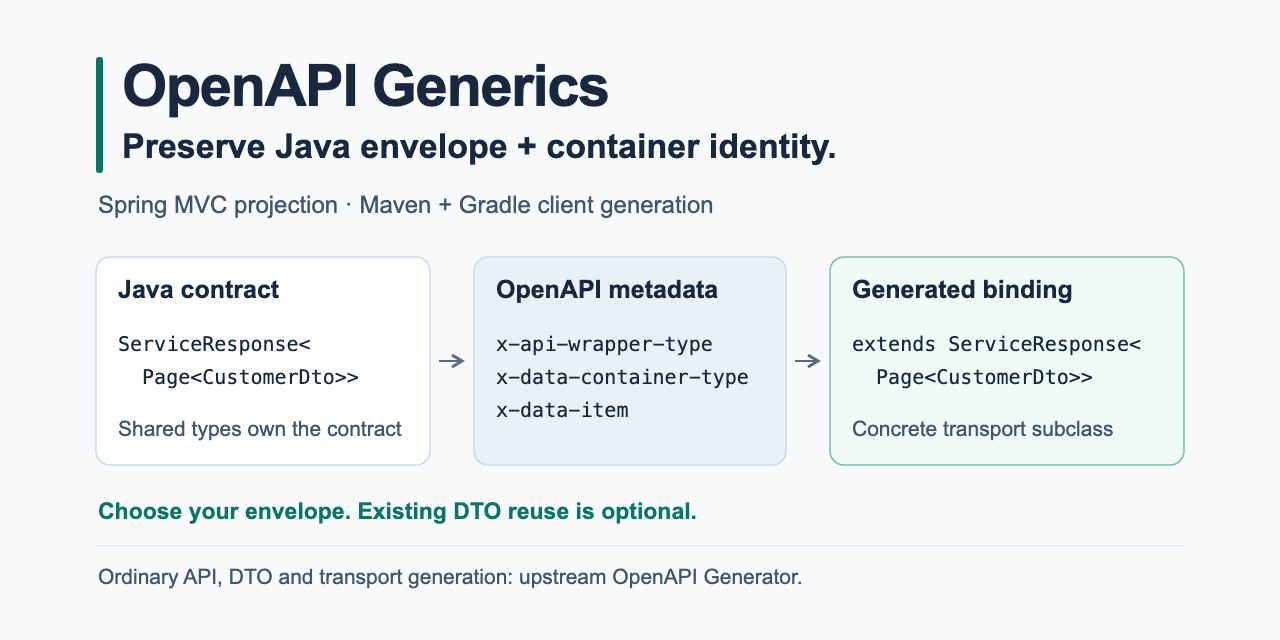
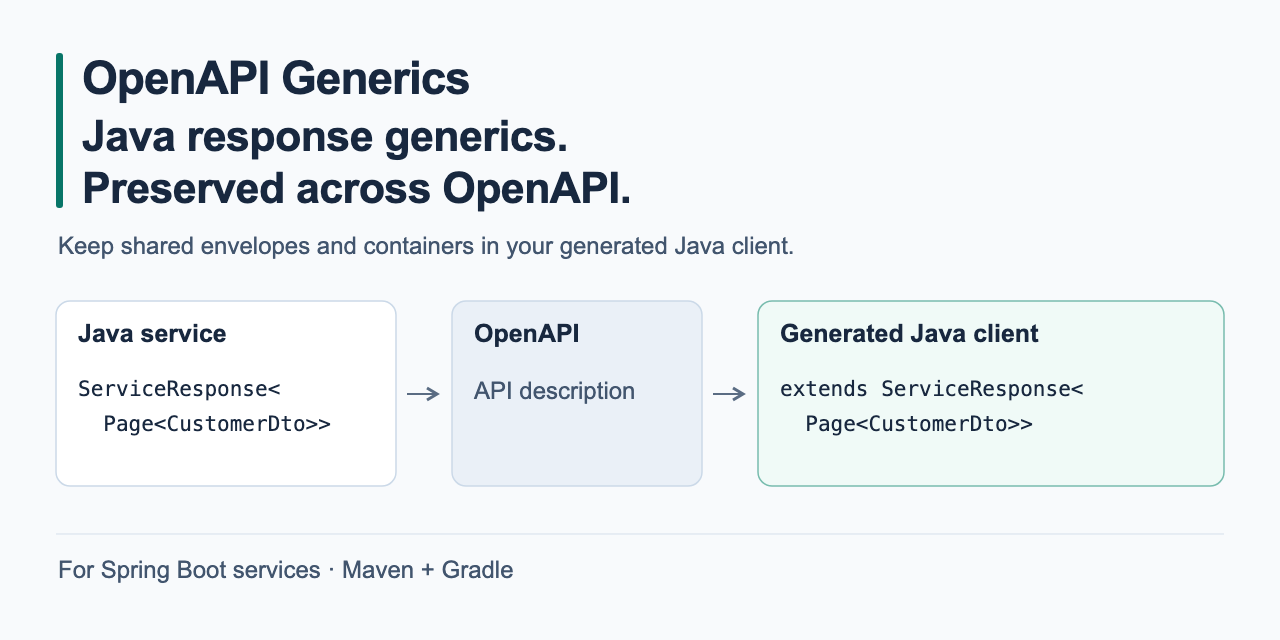
Clarify public compatibility and durable visual messaging

diff --git a/docs/images/README.md b/docs/images/README.md
@@ -44,14 +44,13 @@ The README leads with a short pitch and the concrete Java → metadata → bindi
 content near the top rather than repeating it inside a large hero. The comparison image belongs in
 the proof section; the architecture image belongs in the architecture guide.
 
-The [Social preview](social/social-preview.png) has a separate role: identify the project and explain
-its value when a repository link is shared without the README. Its [editable SVG](social/social-preview.svg)
-shows envelope/container identity, Maven + Gradle integration, envelope choice and optional DTO reuse.
-The concrete `ServiceResponse<Page<CustomerDto>>` example is illustrative, not an envelope restriction.
-BYOE (Bring Your Own Envelope) keeps an application's envelope authoritative; BYOC (Bring Your Own
-Contract) optionally reuses existing DTOs. The card uses plain language rather than unexplained acronyms.
-Ordinary API/DTO/transport generation remains explicitly upstream-owned. Exact reference versions and
-release badges are left to the compatibility docs so the image does not become a parallel version matrix.
+The [Social preview](social/social-preview.png) introduces the product when a repository link is shared
+without the README. Its [editable SVG](social/social-preview.svg) leads with preserving Java response
+generics across OpenAPI, then illustrates the same envelope/container types on both sides. It needs no
+knowledge of Spring MVC projection, vendor-extension keys or project-specific abbreviations.
+Envelope selection and optional DTO reuse belong in adoption/architecture explanations, not the card.
+The example is illustrative, not a promise of arbitrary generic-graph support or replacement of ordinary
+OpenAPI Generator DTO/API/transport generation.
 
 ### Previous cover and GitHub setting
 
@@ -85,11 +84,41 @@ The PNG uses GitHub's [recommended 1280×640 size](https://docs.github.com/en/re
 Check it at full and half size. The project name and identity-preservation message should
 remain clear at link-card size; the full metadata/code examples are available in the README.
 
+## Version and verification lifecycle
+
+The three SVGs describe product value, ownership or concrete binding behavior. None embeds exact
+upstream versions, even in accessibility metadata. Compatibility roles and current/minimum/negative
+values remain in the [compatibility reference](../compatibility.md); the record below describes a
+specific verification run, not an additional consumer version policy.
+
+When promoting an upstream reference:
+
+1. Update the owning build/test references and compatibility/current-reference text, including the
+   README compatibility section where applicable. Run the relevant regression and comparison checks.
+2. Update **the verification record below and its reproduction inputs** after successful verification.
+   An upstream patch change alone does not require editing an SVG or re-exporting the Social preview.
+3. If generated snippets or ownership semantics actually change, review that behavior and update only
+   the affected visual. Re-export the social PNG only when its SVG changes. Keep source and final together.
+
+The architecture has no release/reference labels and stays valid while ownership and flow stay the same.
+The proof illustrates verified snippets; tool/library/options provenance lives below, not inside the image.
+The Social preview is product communication, not a compatibility matrix or an executable proof.
+
 ## Reproduce the comparison
 
-The comparison was checked with **OpenAPI Generator 7.27.0**, **RestClient**, Boot 3/Jackson 2 options
-and no external DTO mappings. Both outputs compiled. `CustomerDto` is ordinarily generated in both;
-this comparison isolates shared `ServiceResponse<T>` and `Page<T>` reconstruction.
+Last verified comparison inputs (both outputs compiled):
+
+| Input | Verified value |
+| --- | --- |
+| OpenAPI Generator | 7.27.0, selected coherently through the Maven parent |
+| Input spec | [Canonical customer snapshot](../../samples/gradle/customer-service/spec/customer-api-docs.json) |
+| Library / serialization | RestClient, Boot 3 / Jackson 2 |
+| Options | `useSpringBoot3=true`, `serializationLibrary=jackson`, `openApiNullable=false` |
+| External DTO mappings | None: `CustomerDto` is ordinarily generated in both outputs |
+| Generator comparison | Upstream `java` versus `java-generics-contract` |
+
+This isolates shared `ServiceResponse<T>` and `Page<T>` reconstruction. These inputs can be updated
+without changing the visual when the verified binding stays identical.
 
 1. Install the root Maven reactor (`mvn clean install`).
 2. Make two temporary copies of the [transport client POM](../../samples/transport-coverage/client/pom.xml),

diff --git a/README.md b/README.md
@@ -5,9 +5,10 @@
 [![Release](https://img.shields.io/github/v/release/blueprint-platform/openapi-generics)](https://github.com/blueprint-platform/openapi-generics/releases/latest)
 [![License: MIT](https://img.shields.io/badge/License-MIT-yellow.svg)](LICENSE)
 
-**Keep your Java response envelope and container types intact in generated clients.**
-OpenAPI Generics projects their identity into OpenAPI, then specializes OpenAPI Generator's Java client
-generation to bind concrete payloads back to those contracts.
+A generated client can match your JSON and still replace your shared Java response types.
+**Keep your envelope and container contracts intact in generated Java clients.**
+OpenAPI Generics carries their identity through OpenAPI metadata, then specializes OpenAPI Generator's
+Java generation to bind concrete payloads back to those contracts.
 
 ## The transformation in 30 seconds
 
@@ -118,7 +119,7 @@ and client-library dependencies. Then place the generated client behind an [appl
 
 ![The stock generator emits response fields; java-generics-contract binds the shared ServiceResponse and Page Java types.](docs/images/proof/generic-binding-comparison.svg)
 
-Both excerpts come from compiled output for the same spec with OpenAPI Generator 7.27.0 and RestClient.
+Both excerpts come from compiled output for the same spec and client options.
 Optional DTO reuse is disabled: `CustomerDto` remains ordinarily generated in both outputs.
 [Proof source and reproduction](docs/images/README.md) · [All samples and run instructions](samples/README.md)
 
@@ -126,7 +127,7 @@ Sample interoperability checks do not transfer ownership of ordinary transport b
 
 ## Compatibility and 1.3.0
 
-Supported lines: **Java 17+**, Spring MVC on **Boot 3.4.x / 3.5.x / 4.x**, **OAG 7.x**, Maven and
+Supported lines: **Java 17+**, Spring MVC on **Boot 3.5.x / 4.x**, **OAG 7.x**, Maven and
 **Gradle 9.x**. The current OAG reference is **7.27.0**; the Gradle integration has its own minimum
 capability edge. Exact references are verification inputs, not consumer-wide pins.
 See [compatibility, version roles and scope](docs/compatibility.md).

diff --git a/CHANGELOG.md b/CHANGELOG.md
@@ -35,7 +35,7 @@ This release introduces a dedicated Gradle plugin for contract-aware client gene
 ### Changed
 
 - Aligned Maven/core and Maven sample OpenAPI Generator current references to **7.27.0**, matching the existing Gradle reference; consumer-selected Maven plugin, core, generator and upstream template extraction remain coherent.
-- Aligned Spring Boot 3.5 reference surfaces to Springdoc **2.10.0** and Spring Boot 4 surfaces to **3.2.0**; Spring Boot 3.4 support remains on **2.8.x**.
+- Aligned Spring Boot 3.5 reference surfaces to Springdoc **2.10.0** and Spring Boot 4 surfaces to **3.2.0**.
 - Established OpenAPI Generator **7.25.0** as the minimum verified Gradle integration baseline.
 - Promoted the Gradle plugin and canonical Gradle sample wrappers/current references to **9.9.1**; the minimum tested Gradle edge remains **9.0.0**.
 - Updated sample projects to use Spring Boot dependency management for improved dependency alignment.

diff --git a/docs/adoption/server-side-adoption.md b/docs/adoption/server-side-adoption.md
@@ -61,8 +61,8 @@ In an existing supported Spring MVC application, add:
 </dependency>
 ```
 
-The Springdoc pin above is the **Boot 3.5** reference. Use **3.2.0** for the Boot 4 reference;
-Boot 3.4 remains on **2.8.x**. Your application chooses its framework versions within the
+The Springdoc pin above is the **Boot 3.5** reference. Use **3.2.0** for the Boot 4 reference.
+Your application chooses its framework versions within the
 [compatibility policy](../compatibility.md#supported-lines); the starter does not select a UI/runtime
 for you. Platform examples target prepared **1.3.0** artifacts, which must be available in your repository.
 

diff --git a/docs/compatibility.md b/docs/compatibility.md
@@ -18,7 +18,6 @@ version; the repository's verification JDKs are listed separately below.
 
 | Projection surface | Spring Boot | Springdoc | Integration |
 | --- | --- | --- | --- |
-| Boot 3.4 | 3.4.x | 2.8.x | Spring MVC |
 | Boot 3.5 | 3.5.x | 2.8.x–2.10.x | Spring MVC |
 | Boot 4 | 4.x | 3.x | Spring MVC |
 
